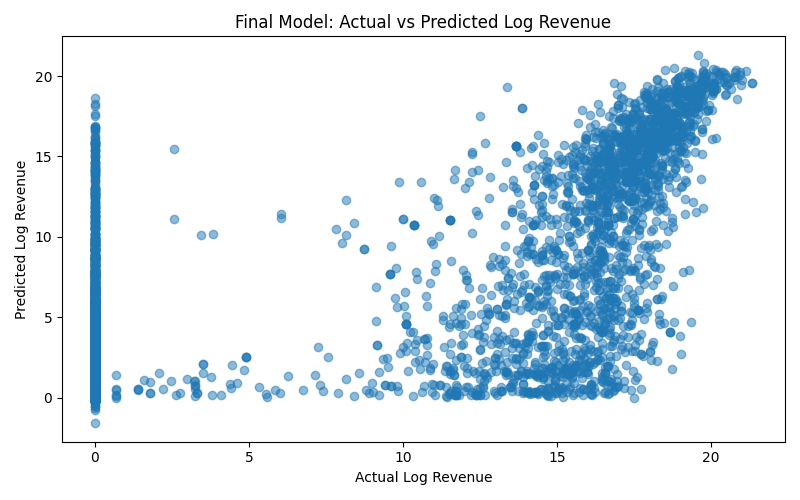
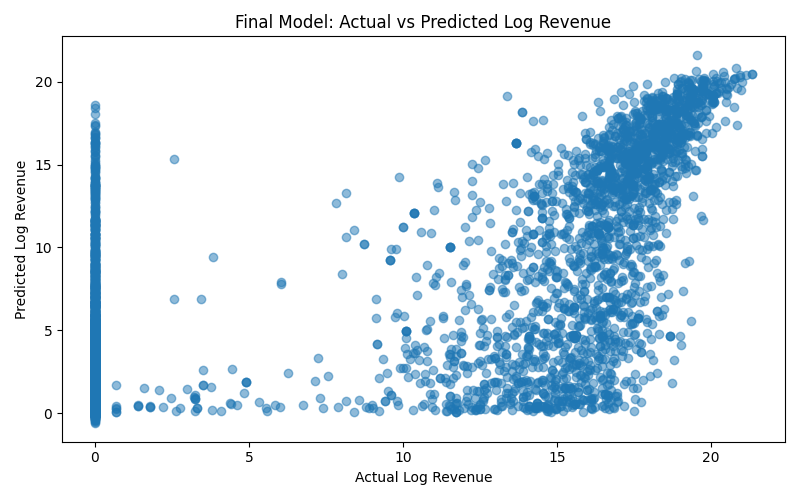
box_office

diff --git a/ML/box_office_preds/box_office_preds.py b/ML/box_office_preds/box_office_preds.py
@@ -11,21 +11,34 @@ import ast
 import matplotlib.pyplot as plt
 import seaborn as sns
 import os
+import shap
 
-# Ensure output directory exists
+def safe_qcut(series, q=3, labels=None):
+    """Safely perform qcut with duplicate handling."""
+    try:
+        result = pd.qcut(series, q=q, labels=labels, duplicates='drop')
+    except ValueError:
+        result = pd.cut(series, bins=q, labels=labels)
+    return result
+
 os.makedirs("figures", exist_ok=True)
 
-# Load main dataset
 df = pd.read_csv("cleaned_movies_metadata.csv")
 
-# Load and merge Rotten Tomatoes data
 rt = pd.read_csv("rotten_tomatoes_movies.csv")
 df = df.merge(rt[['title', 'rating']], how='left', on='title')
 df['rating'] = df['rating'].astype('category').cat.codes
 
-# Load and merge credits data
 credits = pd.read_csv("credits.csv")
 df = df.merge(credits[['id', 'cast', 'crew']], how='left', on='id')
+
+# Missing Values Heatmap
+plt.figure(figsize=(8, 5))
+sns.heatmap(df.isnull(), cbar = False)
+plt.title("Missing Values")
+plt.tight_layout()
+plt.savefig("figures/missing_values.png")
+plt.close()
 
 # Parse cast and crew features
 def parse_cast(cast_str):
@@ -46,6 +59,25 @@ df['num_top_cast'] = df['cast'].apply(parse_cast)
 df['num_directors'] = df['crew'].apply(lambda x: parse_crew(x, 'Directing'))
 df['num_writers'] = df['crew'].apply(lambda x: parse_crew(x, 'Writing'))
 df['num_producers'] = df['crew'].apply(lambda x: parse_crew(x, 'Production'))
+
+plt.figure(figsize=(10,8))
+sns.heatmap(df[['budget','popularity','runtime','rating',
+                'num_top_cast','num_directors','num_writers',
+                'num_producers','revenue']].corr(),
+            annot=True, fmt=".2f", cmap="coolwarm")
+plt.title("Feature Correlation Matrix")
+plt.tight_layout()
+plt.savefig("figures/correlation_matrix.png")
+plt.close()
+
+# Compare feature distributions by revenue group
+df['revenue_group'] = safe_qcut(df['revenue'], q=3, labels=['Low','Medium','High'])
+plt.figure(figsize=(8,5))
+sns.boxplot(data=df, x='revenue_group', y='budget')
+plt.title("Budget Distribution Across Revenue Groups")
+plt.tight_layout()
+plt.savefig("figures/budget_by_revenue_group.png")
+plt.close()
 
 # Visualization 1: Revenue Distribution
 plt.figure(figsize=(8, 5))
@@ -68,18 +100,6 @@ plt.ylabel("Revenue")
 plt.tight_layout()
 plt.savefig("figures/budget_vs_revenue.png")
 plt.close()
-
-# Visualization 3: Average Revenue by Genre
-if 'main_genre' in df.columns:
-    genre_revenue = df.groupby('main_genre')['revenue'].mean().sort_values(ascending=False)
-    plt.figure(figsize=(10, 6))
-    sns.barplot(x=genre_revenue.values, y=genre_revenue.index)
-    plt.title("Average Revenue by Genre")
-    plt.xlabel("Average Revenue")
-    plt.ylabel("Main Genre")
-    plt.tight_layout()
-    plt.savefig("figures/genre_revenue.png")
-    plt.close()
 
 # Feature selection
 features = ['budget', 'popularity', 'runtime', 'rating', 
@@ -128,6 +148,26 @@ for iteration in range(N_ITER):
     early_stop = EarlyStopping(patience=10, restore_best_weights=True, verbose=0)
     ann_model.fit(X_train_scaled, y_resid, 
                   validation_split=0.2, epochs=100, batch_size=32, callbacks=[early_stop], verbose=0)
+    
+    try:
+    
+
+        # Use small subset to keep computation light
+        X_background = X_train_scaled[np.random.choice(X_train_scaled.shape[0], 100, replace=False)]
+        X_explain = X_test_scaled[:100]
+
+        deep_explainer = shap.DeepExplainer(ann_model, X_background)
+        shap_values_deep = deep_explainer.shap_values(X_explain)
+
+        # Plot SHAP summary for this iteration
+        shap.summary_plot(shap_values_deep, X_explain, show=False)
+        plt.title(f"Deep SHAP Summary (ANN Iteration {iteration + 1})")
+        plt.savefig(f"figures/deep_shap_iter{iteration + 1}.png", bbox_inches='tight')
+        plt.close()
+
+    except Exception as e:
+        print(f"⚠ Skipped Deep SHAP at iteration {iteration + 1}: {e}")
+
 
     ann_train_features = ann_model.predict(X_train_scaled)
     ann_test_features = ann_model.predict(X_test_scaled)
@@ -145,6 +185,38 @@ final_preds = final_model.predict(X_test_aug)
 rmse = np.sqrt(mean_squared_error(y_test, final_preds))
 print(f"\n✅ Final AugBoost RMSE: {rmse:.4f}")
 
+importances = final_model.feature_importance()
+feature_names = final_model.feature_name()
+
+imp_df = pd.DataFrame({'Feature': feature_names, 'Importance': importances})
+imp_df = imp_df.sort_values(by='Importance', ascending=False)
+
+plt.figure(figsize=(10,6))
+sns.barplot(data=imp_df.head(15), x='Importance', y='Feature')
+plt.title("Top 15 Feature Importances (LightGBM)")
+plt.tight_layout()
+plt.savefig("figures/feature_importance.png")
+plt.close()
+
+explainer = shap.TreeExplainer(final_model)
+
+# Use a manageable sample for efficiency
+X_sample = X_test_aug.sample(n=min(500, len(X_test_aug)), random_state=42)
+
+shap_values = explainer.shap_values(X_sample)
+
+# Summary plot of feature importance
+shap.summary_plot(shap_values, X_sample, show=False)
+plt.title("Tree SHAP Summary: Final LightGBM Model")
+plt.savefig("figures/shap_summary_lightgbm.png", bbox_inches='tight')
+plt.close()
+
+# Optional: Feature importance bar plot (SHAP-based)
+shap.summary_plot(shap_values, X_sample, plot_type="bar", show=False)
+plt.title("Tree SHAP Feature Importance (Bar)")
+plt.savefig("figures/shap_bar_lightgbm.png", bbox_inches='tight')
+plt.close()
+
 # Save final performance comparison plot
 plt.figure(figsize=(8, 5))
 plt.scatter(y_test, final_preds, alpha=0.5)
@@ -155,6 +227,50 @@ plt.tight_layout()
 plt.savefig("figures/final_model_performance.png")
 plt.close()
 
+# === Model Evaluation and Diagnostics ===
+residuals = y_test - final_preds
+
+# Residual Plot
+plt.figure(figsize=(8,5))
+sns.scatterplot(x=y_test, y=residuals, alpha=0.5)
+plt.axhline(0, color='red', linestyle='--')
+plt.title("Residuals vs Actual Log Revenue")
+plt.xlabel("Actual Log Revenue")
+plt.ylabel("Residuals")
+plt.tight_layout()
+plt.savefig("figures/residual_plot.png")
+plt.close()
+
+# Residual Distribution
+plt.figure(figsize=(8,5))
+sns.histplot(residuals, bins=30, kde=True)
+plt.title("Distribution of Prediction Errors (Residuals)")
+plt.xlabel("Residual (y_true - y_pred)")
+plt.tight_layout()
+plt.savefig("figures/residual_distribution.png")
+plt.close()
+
+# Actual vs Predicted with Trend Line
+plt.figure(figsize=(8,5))
+sns.regplot(x=y_test, y=final_preds, scatter_kws={'alpha':0.5}, line_kws={'color':'red'})
+plt.title("Actual vs Predicted Log Revenue with Trend Line")
+plt.xlabel("Actual Log Revenue")
+plt.ylabel("Predicted Log Revenue")
+plt.tight_layout()
+plt.savefig("figures/actual_vs_predicted_trend.png")
+plt.close()
+
+# === Actual vs Predicted Revenue in Dollars ===
+plt.figure(figsize=(8,5))
+sns.scatterplot(x=np.expm1(y_test), y=np.expm1(final_preds), alpha=0.5)
+plt.title("Actual vs Predicted Revenue ($)")
+plt.xlabel("Actual Revenue")
+plt.ylabel("Predicted Revenue")
+plt.xscale('log')
+plt.yscale('log')
+plt.tight_layout()
+plt.savefig("figures/actual_vs_predicted_revenue_dollars.png")
+plt.close()
 
 
 
